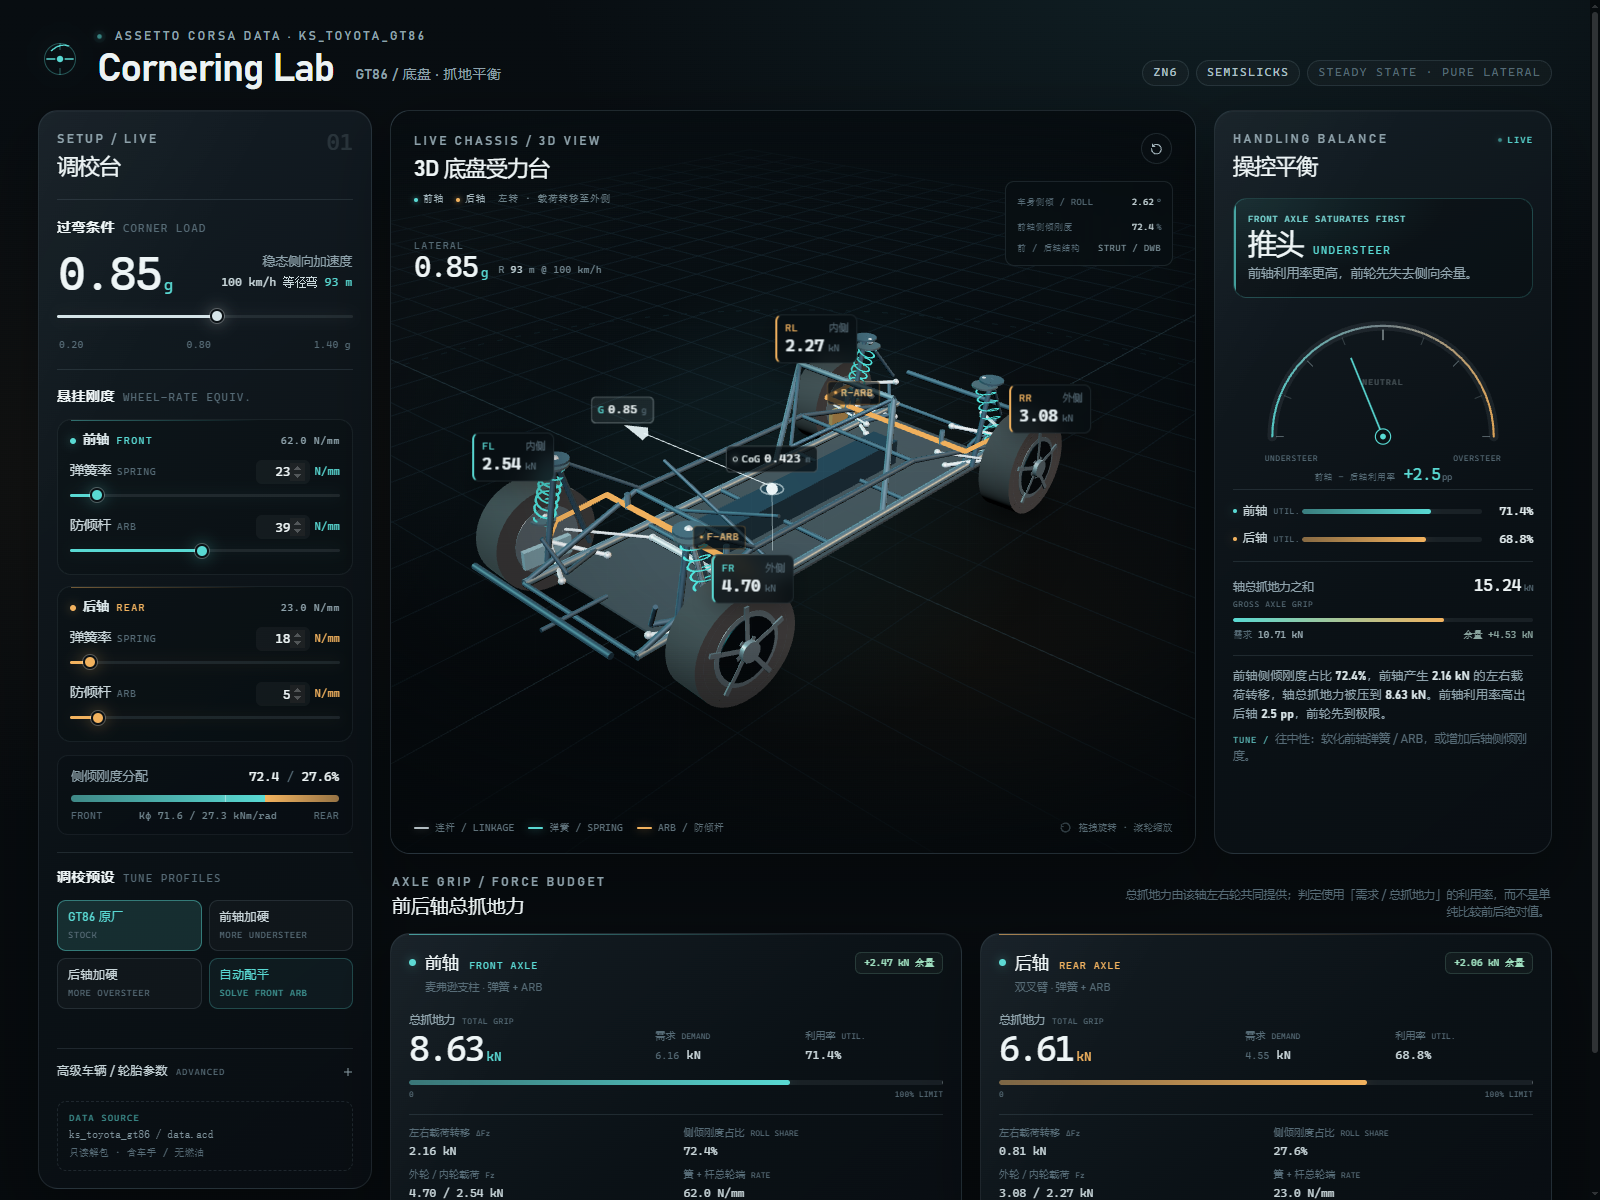
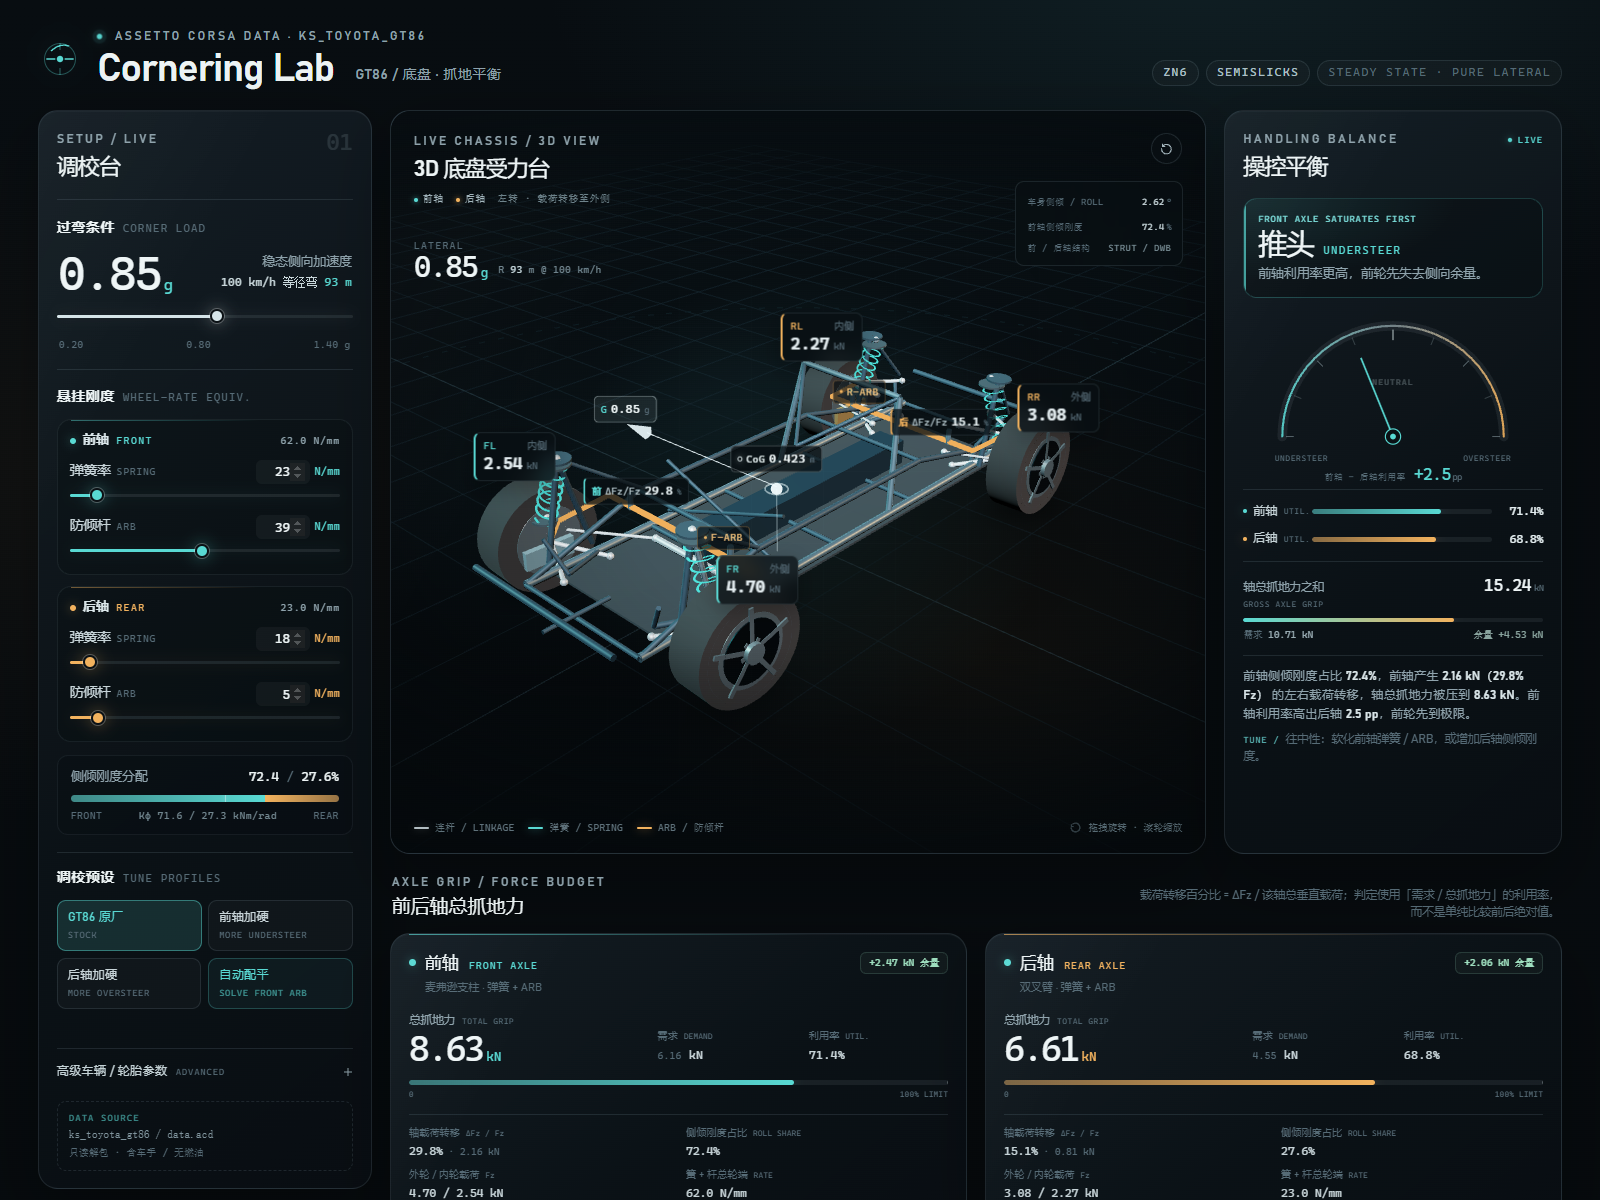
feat: surface load transfer percentages and 3D chassis annotations
Raise spring-rate controls to 200 N/mm, add CoG and lateral-G overlays, increase typography, and show axle load transfer as delta Fz / axle Fz in cards and 3D labels.

diff --git a/index.html b/index.html
@@ -4,7 +4,7 @@
   <meta charset="utf-8">
   <meta name="viewport" content="width=device-width, initial-scale=1">
   <meta name="color-scheme" content="dark">
-  <meta name="description" content="GT86 ZN6 3D 底盘、侧倾刚度与前后轴抓地力平衡实验台。">
+  <meta name="description" content="GT86 ZN6 3D 底盘、CoG/G 力显示、侧倾刚度与前后轴抓地力平衡实验台。">
   <title>GT86 Cornering Lab · 3D 底盘与抓地平衡</title>
   <link rel="stylesheet" href="styles.css">
 </head>
@@ -365,6 +365,12 @@
                 </div>
                 <div class="part-label part-label--arb" data-part-label="frontArb"><i></i>F-ARB</div>
                 <div class="part-label part-label--arb" data-part-label="rearArb"><i></i>R-ARB</div>
+                <div class="transfer-label transfer-label--front" data-transfer-label="front">
+                  <span>前</span><span>ΔFz/Fz</span><b id="frontTransferLabelPct">29.8</b><small>%</small>
+                </div>
+                <div class="transfer-label transfer-label--rear" data-transfer-label="rear">
+                  <span>后</span><span>ΔFz/Fz</span><b id="rearTransferLabelPct">15.1</b><small>%</small>
+                </div>
               </div>
 
               <div class="datum-label datum-label--cog" data-cog-label>
@@ -375,6 +381,13 @@
               <div class="datum-label datum-label--g" data-g-label>
                 <span>G</span>
                 <b id="gVectorValue">0.85</b><small>g</small>
+              </div>
+
+              <div class="scene-mobile-metrics" aria-label="三维视图数据">
+                <span>CoG <b id="mobileCogHeight">0.423</b><small>m</small></span>
+                <span>G <b id="mobileGValue">0.85</b><small>g</small></span>
+                <span class="metric-front">F ΔFz/Fz <b id="mobileFrontTransfer">29.8</b><small>%</small></span>
+                <span class="metric-rear">R ΔFz/Fz <b id="mobileRearTransfer">15.1</b><small>%</small></span>
               </div>
 
               <div class="scene-bottom">
@@ -496,7 +509,7 @@
             <div class="eyebrow">AXLE GRIP / FORCE BUDGET</div>
             <h2 id="axleTitle">前后轴总抓地力</h2>
           </div>
-          <p>总抓地力由该轴左右轮共同提供；判定使用「需求 / 总抓地力」的利用率，而不是单纯比较前后绝对值。</p>
+          <p>载荷转移百分比 = ΔFz / 该轴总垂直载荷；判定使用「需求 / 总抓地力」的利用率，而不是单纯比较前后绝对值。</p>
         </div>
 
         <div class="axle-grid">
@@ -535,8 +548,8 @@
 
             <div class="axle-details">
               <div>
-                <span>左右载荷转移 <small>ΔFz</small></span>
-                <strong><span id="frontLoadTransferValue">2.16</span> kN</strong>
+                <span>轴载荷转移 <small>ΔFz / Fz</small></span>
+                <strong><span id="frontTransferPct">29.8</span>%<em id="frontTransferAbs"> · 2.16 kN</em></strong>
               </div>
               <div>
                 <span>侧倾刚度占比 <small>ROLL SHARE</small></span>
@@ -588,8 +601,8 @@
 
             <div class="axle-details">
               <div>
-                <span>左右载荷转移 <small>ΔFz</small></span>
-                <strong><span id="rearLoadTransferValue">0.81</span> kN</strong>
+                <span>轴载荷转移 <small>ΔFz / Fz</small></span>
+                <strong><span id="rearTransferPct">15.1</span>%<em id="rearTransferAbs"> · 0.81 kN</em></strong>
               </div>
               <div>
                 <span>侧倾刚度占比 <small>ROLL SHARE</small></span>

diff --git a/styles.css b/styles.css
@@ -1391,6 +1391,98 @@ input:focus-visible {
   color: var(--front);
 }
 
+.transfer-label {
+  --transfer-color: var(--front);
+  position: absolute;
+  top: 0;
+  left: 0;
+  display: inline-flex;
+  align-items: baseline;
+  gap: 4px;
+  padding: 4px 6px;
+  border: 1px solid rgba(170, 201, 213, 0.14);
+  border-left: 2px solid var(--transfer-color);
+  border-radius: 5px;
+  color: #aebfc5;
+  background: rgba(8, 14, 18, 0.76);
+  font-family: var(--font-mono);
+  font-size: 9.5px;
+  letter-spacing: 0.035em;
+  pointer-events: none;
+  opacity: 0;
+  will-change: transform, opacity;
+  transition: opacity 0.18s ease;
+}
+
+.transfer-label--rear {
+  --transfer-color: var(--rear);
+}
+
+.transfer-label > span:first-child {
+  color: var(--transfer-color);
+  font-weight: 600;
+}
+
+.transfer-label b {
+  color: #eff8fa;
+  font-size: 11.5px;
+  font-weight: 400;
+  font-variant-numeric: tabular-nums;
+}
+
+.transfer-label small {
+  color: var(--faint);
+  font-size: 8.4px;
+}
+
+.scene-mobile-metrics {
+  position: absolute;
+  right: 16px;
+  bottom: 48px;
+  left: 16px;
+  z-index: 4;
+  display: none;
+  grid-template-columns: repeat(2, minmax(0, 1fr));
+  gap: 5px 14px;
+  padding: 8px 10px;
+  border: 1px solid rgba(170, 201, 213, 0.16);
+  border-radius: 8px;
+  color: #a4b7bd;
+  background: rgba(7, 13, 17, 0.76);
+  font-family: var(--font-mono);
+  font-size: 9px;
+  letter-spacing: 0.03em;
+  pointer-events: none;
+  backdrop-filter: blur(9px);
+}
+
+.scene-mobile-metrics > span {
+  display: flex;
+  align-items: baseline;
+  gap: 4px;
+  white-space: nowrap;
+}
+
+.scene-mobile-metrics b {
+  color: #eff8fa;
+  font-size: 11.5px;
+  font-weight: 400;
+  font-variant-numeric: tabular-nums;
+}
+
+.scene-mobile-metrics small {
+  color: var(--faint);
+  font-size: 8px;
+}
+
+.scene-mobile-metrics .metric-front {
+  color: var(--front);
+}
+
+.scene-mobile-metrics .metric-rear {
+  color: var(--rear);
+}
+
 /* Bottom HUD */
 
 .scene-bottom {
@@ -2347,6 +2439,16 @@ input:focus-visible {
   font-size: inherit;
 }
 
+.axle-details strong em {
+  color: var(--faint);
+  font-family: var(--font-mono);
+  font-size: 0.84em;
+  font-style: normal;
+  font-weight: 400;
+  letter-spacing: 0;
+  white-space: nowrap;
+}
+
 /* --------------------------------------------------------------------------
    Data/source panel
    -------------------------------------------------------------------------- */
@@ -2989,12 +3091,15 @@ input:focus-visible {
     min-width: 58px;
   }
 
-  .part-label {
+  .part-label,
+  .datum-label,
+  .transfer-label,
+  .scene-telemetry {
     display: none;
   }
 
-  .scene-telemetry {
-    display: none;
+  .scene-mobile-metrics {
+    display: grid;
   }
 
   .orbit-hint {
@@ -3065,5 +3170,18 @@ input:focus-visible {
     animation-duration: 0.01ms !important;
     animation-iteration-count: 1 !important;
     transition-duration: 0.01ms !important;
+  }
+}
+
+@media (max-width: 700px) {
+  .part-label,
+  .datum-label,
+  .transfer-label,
+  .scene-telemetry {
+    display: none;
+  }
+
+  .scene-mobile-metrics {
+    display: grid;
   }
 }

diff --git a/app.js b/app.js
@@ -253,16 +253,19 @@
     var frontShare = (result.rollStiffness.frontShare * 100).toFixed(1);
     var rearShare = (result.rollStiffness.rearShare * 100).toFixed(1);
 
+    var frontTransferPct = (result.loadTransferRatio.front * 100).toFixed(1);
+    var rearTransferPct = (result.loadTransferRatio.rear * 100).toFixed(1);
+
     if (result.balance === 'understeer') {
       element.innerHTML =
         '前轴侧倾刚度占比 <strong>' + frontShare + '%</strong>，前轴产生 <strong>' +
-        formatForce(result.frontLoadTransfer) + ' kN</strong> 的左右载荷转移，' +
+        formatForce(result.frontLoadTransfer) + ' kN（' + frontTransferPct + '% Fz）</strong> 的左右载荷转移，' +
         '轴总抓地力被压到 <strong>' + formatForce(result.grip.front) + ' kN</strong>。' +
         '前轴利用率高出后轴 <strong>' + delta + ' pp</strong>，前轮先到极限。';
     } else if (result.balance === 'oversteer') {
       element.innerHTML =
         '后轴侧倾刚度占比 <strong>' + rearShare + '%</strong>，后轴产生 <strong>' +
-        formatForce(result.rearLoadTransfer) + ' kN</strong> 的左右载荷转移，' +
+        formatForce(result.rearLoadTransfer) + ' kN（' + rearTransferPct + '% Fz）</strong> 的左右载荷转移，' +
         '轴总抓地力被压到 <strong>' + formatForce(result.grip.rear) + ' kN</strong>。' +
         '后轴利用率高出前轴 <strong>' + delta + ' pp</strong>，后轮先到极限。';
     } else {
@@ -300,8 +303,16 @@
       rearReserveElement.classList.toggle('is-over', rearReserve < 0);
     }
 
-    setText('frontLoadTransferValue', formatForce(result.frontLoadTransfer));
-    setText('rearLoadTransferValue', formatForce(result.rearLoadTransfer));
+    var frontTransferPct = (result.loadTransferRatio.front * 100).toFixed(1);
+    var rearTransferPct = (result.loadTransferRatio.rear * 100).toFixed(1);
+    setText('frontTransferPct', frontTransferPct);
+    setText('rearTransferPct', rearTransferPct);
+    setText('frontTransferLabelPct', frontTransferPct);
+    setText('rearTransferLabelPct', rearTransferPct);
+    setText('mobileFrontTransfer', frontTransferPct);
+    setText('mobileRearTransfer', rearTransferPct);
+    setText('frontTransferAbs', ' · ' + formatForce(result.frontLoadTransfer) + ' kN');
+    setText('rearTransferAbs', ' · ' + formatForce(result.rearLoadTransfer) + ' kN');
     setText('frontRollShareValue', (result.rollStiffness.frontShare * 100).toFixed(1));
     setText('rearRollShareValue', (result.rollStiffness.rearShare * 100).toFixed(1));
     setText('frontWheelLoadsValue',
@@ -382,6 +393,8 @@
     setText('sceneFrontShareValue', (result.rollStiffness.frontShare * 100).toFixed(1));
     setText('cogHeightValue', result.state.cgHeightM.toFixed(3));
     setText('gVectorValue', result.state.lateralG.toFixed(2));
+    setText('mobileCogHeight', result.state.cgHeightM.toFixed(3));
+    setText('mobileGValue', result.state.lateralG.toFixed(2));
 
     var frontShare = result.rollStiffness.frontShare * 100;
     var rearShare = 100 - frontShare;

diff --git a/scene3d.js b/scene3d.js
@@ -234,9 +234,11 @@
     this.springs = [];
     this.wheelLabels = Array.prototype.slice.call(container.querySelectorAll('[data-wheel-label]'));
     this.partLabels = Array.prototype.slice.call(container.querySelectorAll('[data-part-label]'));
+    this.transferLabels = Array.prototype.slice.call(container.querySelectorAll('[data-transfer-label]'));
     this.cogLabel = container.querySelector('[data-cog-label]');
     this.gLabel = container.querySelector('[data-g-label]');
     this.partAnchors = {};
+    this.transferAnchors = {};
     this.currentGArrowLength = 1.3;
     this.loading = container.querySelector('.scene-loading');
     this.frontAxleZ = DIM.wheelbase / 2;
@@ -795,6 +797,15 @@
       self.body.add(labelAnchor);
       self.partAnchors[axle.id + 'Arb'] = labelAnchor;
 
+      var transferAnchor = new THREE.Object3D();
+      transferAnchor.position.set(
+        axle.id === 'front' ? -0.33 : 0.33,
+        barY + 0.115 - DIM.rollCenterY,
+        axle.z
+      );
+      self.body.add(transferAnchor);
+      self.transferAnchors[axle.id] = transferAnchor;
+
       [-0.38, 0.38].forEach(function (x) {
         self.addChassisTube(
           [x, barY - 0.015, axle.z],
@@ -1104,7 +1115,7 @@
   };
 
   CorneringChassisScene.prototype.updateLabelPositions = function () {
-    if (!this.wheelLabels.length && !this.partLabels.length && !this.cogLabel && !this.gLabel) {
+    if (!this.wheelLabels.length && !this.partLabels.length && !this.transferLabels.length && !this.cogLabel && !this.gLabel) {
       return;
     }
 
@@ -1159,6 +1170,23 @@
       label.style.transform = 'translate(-50%, -50%) translate(' +
         position.x.toFixed(1) + 'px, ' + position.y.toFixed(1) + 'px)';
       label.style.opacity = visible ? '0.9' : '0';
+    });
+
+    this.transferLabels.forEach(function (label) {
+      var key = label.getAttribute('data-transfer-label');
+      var anchor = self.transferAnchors[key];
+      if (!anchor) {
+        label.style.opacity = '0';
+        return;
+      }
+      TMP_A.setFromMatrixPosition(anchor.matrixWorld);
+      var position = projectAnchor(TMP_A);
+      var visible = position.visible &&
+        position.x > 0 && position.x < width &&
+        position.y > 0 && position.y < height;
+      label.style.transform = 'translate(-50%, -50%) translate(' +
+        position.x.toFixed(1) + 'px, ' + position.y.toFixed(1) + 'px)';
+      label.style.opacity = visible ? '1' : '0';
     });
 
     if (this.cogLabel) {

diff --git a/tests/model.test.js b/tests/model.test.js
@@ -36,6 +36,8 @@ test('GT86 defaults reproduce the source geometry and near-understeer balance', 
   approx(r.grip.front, 8628, 5, 'front grip');
   approx(r.grip.rear, 6612, 5, 'rear grip');
   approx(r.deltaPP, 2.54, 0.05, 'balance delta');
+  approx(r.loadTransferRatio.front, 0.2977, 0.001, 'front load-transfer ratio');
+  approx(r.loadTransferRatio.rear, 0.1514, 0.001, 'rear load-transfer ratio');
   assert.equal(r.balance, 'understeer');
 });
 

diff --git a/README.md b/README.md
@@ -13,7 +13,8 @@
 - 可旋转 / 缩放的 3D 底盘：前麦弗逊、后双叉臂、四组弹簧-减振器、前后防倾杆、下控制臂、上横臂、转向拉杆、轮毂与轮胎。
 - 3D **CoG 质心标签 + 垂线 / 地面投影**，以及随侧向加速度缩放的白色 **G 力箭头**。
 - 前后弹簧率可在 **8–200 N/mm** 范围内调节；ARB 保持 0–80 / 0–60 N/mm。
-- 实时联动：改变弹簧率、ARB 刚度或侧向加速度时，底盘侧倾、车轮垂向载荷、悬架杆件端点、弹簧长度、ARB 摆臂、轮心高度、CoG 和 G 箭头都会更新。
+- 轴载荷转移以 **ΔFz / 该轴总垂直载荷（Fz）的百分比**显示；桌面 3D 视图中有 F / R 投影标签，窄屏则以 3D 视图内的紧凑数据条呈现相同数值。
+- 实时联动：改变弹簧率、ARB 刚度或侧向加速度时，底盘侧倾、车轮垂向载荷、悬架杆件端点、弹簧长度、ARB 摆臂、轮心高度、CoG、G 箭头和载荷转移百分比都会更新。
 - 前后轴总抓地力、需求量、利用率、前后轴载荷转移、左右轮载荷。
 - 轴总抓地力之和与需求；内侧轮离地 / 总抓地力不足警告。
 - 调校预设：GT86 原厂、前轴加硬、后轴加硬、自动配平（求前 ARB 使前后利用率相等）。
@@ -52,10 +53,11 @@ s_f       = Kφ,F / (Kφ,F + Kφ,R)
 ΔFz       = s_f · m · a_y · h / t
 Fgrip,axle = μ · Fz_axle − k · |ΔFz|
 U          = F_demand / Fgrip
+ΔFz%       = ΔFz / Fz_axle
 ```
 
 - 悬架弹簧与 ARB 首先合并成轴轮端刚度，再给出前后侧倾刚度分配。
-- 前 / 后轴需求侧向力按轴荷分配。
+- 前 / 后轴需求侧向力按轴荷分配；`ΔFz%` 的分母是该轴的总垂直载荷，而不是整车总载荷。
 - 利用率高的一轴先达到抓地极限：前轴高 → understeer；后轴高 → oversteer。
 - **载荷转移损失系数 k 默认为 0.30，是可调工程等效系数，不是 AC 逐点 Pacejka 轮胎曲线的直接参数。** `k` 设为 0 时，改变弹簧/ARB 分配不会改变轴总抓地力；这是模型的一个可验证性质。
 - 3D 悬架是依据 GT86 的 STRUT / DWB 架构、轴距、轮距和刚度做的**简化机构示意**，不是对 `suspensions.ini` 硬点的逐点复刻。
